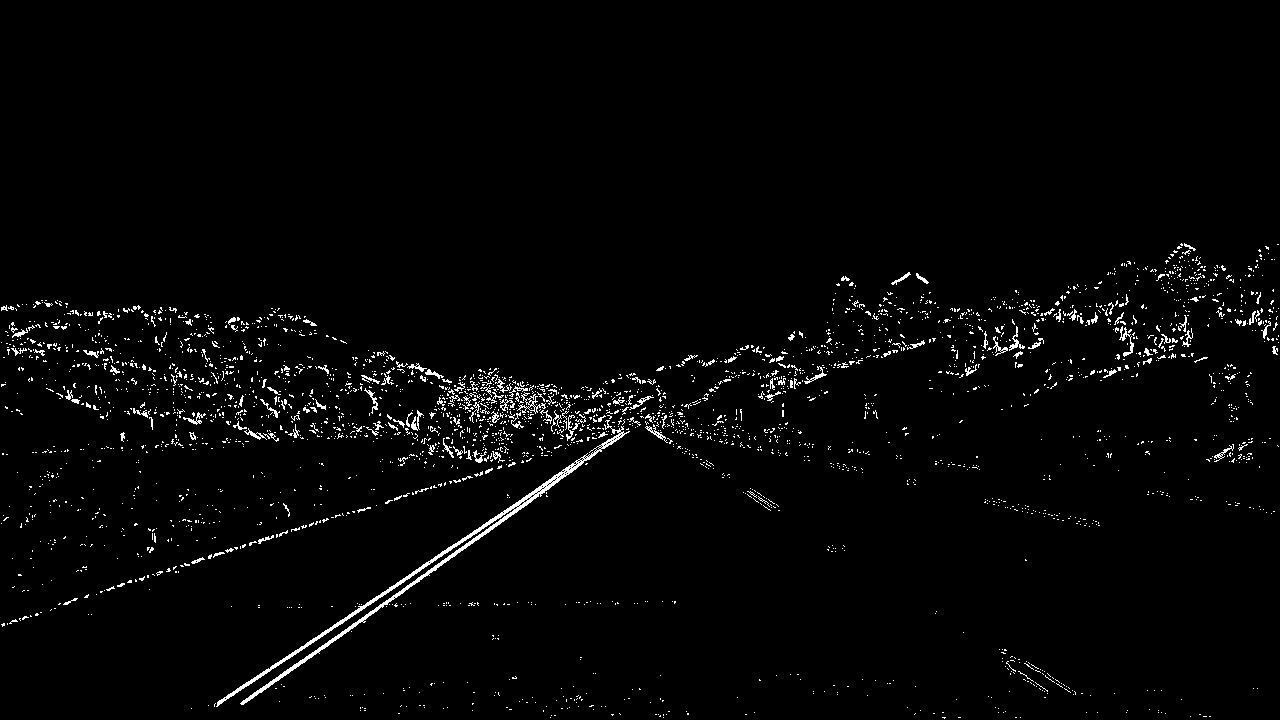
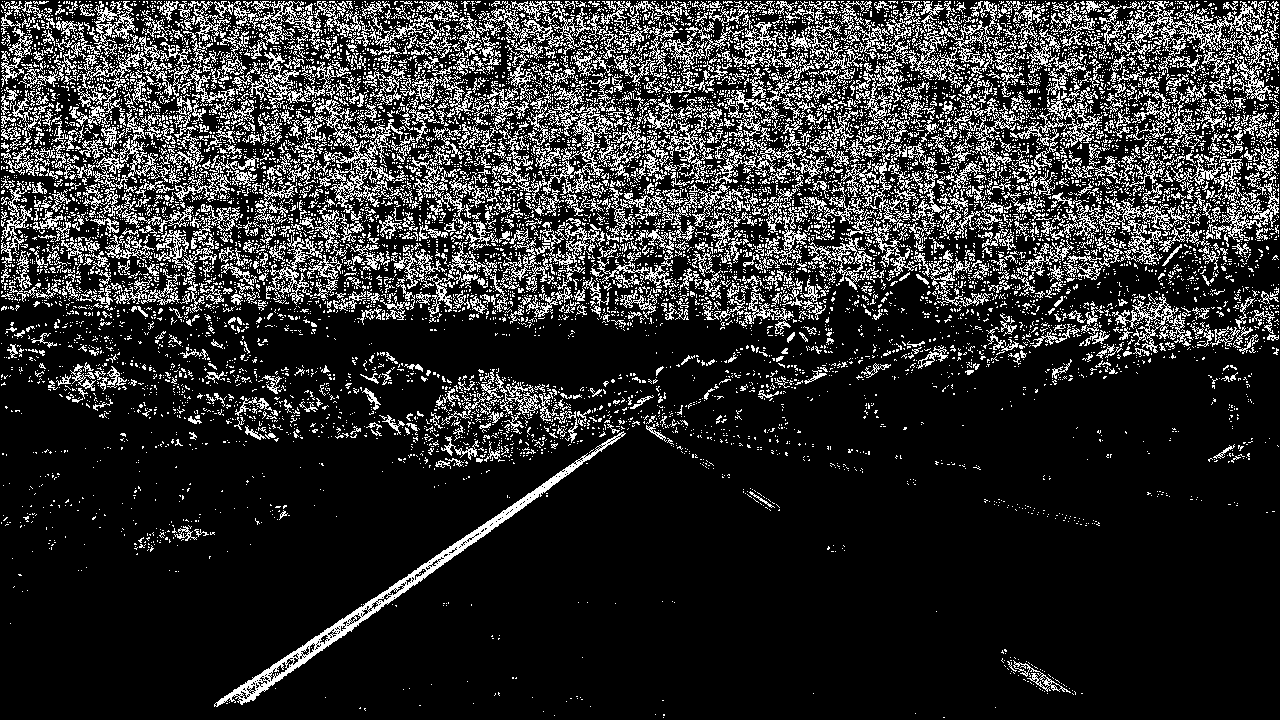
hsv, new combine, new warp points

diff --git a/color_transform.py b/color_transform.py
@@ -17,6 +17,11 @@ def hls_conversion(iscv2):
         return cv2.COLOR_BGR2HLS
     return cv2.COLOR_RGB2HLS
 
+def hsv_conversion(iscv2):    
+    if(iscv2):
+        return cv2.COLOR_BGR2HSV
+    return cv2.COLOR_RGB2HSV
+
 def abs_sobel_thresh(img, orient='x', sobel_kernel=3, thresh=(0, 255), iscv2=True):
     # Grayscale
     gray = cv2.cvtColor(img, gray_conversion(iscv2))
@@ -75,6 +80,13 @@ def hls_select(img, thresh=(0, 255), iscv2=True):
     binary[(s > thresh[0]) & (s <= thresh[1])] = 1
     return binary
 
+def hsv_select(img, thresh=(0, 255), iscv2=True):
+    hsv = cv2.cvtColor(img, hsv_conversion(iscv2))
+    s = hsv[:,:,1]
+    binary = np.zeros_like(s)
+    binary[(s > thresh[0]) & (s <= thresh[1])] = 1
+    return binary
+
 def combine(image, ksize=3):
     # Apply each of the thresholding functions
     gradx = abs_sobel_thresh(image, orient='x', sobel_kernel=ksize, thresh=(20, 100))
@@ -84,7 +96,7 @@ def combine(image, ksize=3):
     hls_binary = hls_select(image, thresh=(90, 255))
     # Combine functions in a smart (hopefully) way
     combined = np.zeros_like(dir_binary)
-    combined[((gradx == 1) & (hls_binary == 1)) | ((mag_binary == 1) & (dir_binary == 1))] = 1
+    combined[((gradx == 1) & (grady == 1) & (mag_binary == 1)) | ((hls_binary == 1) & (dir_binary == 1))] = 1
     return combined
 
 def write_color_transformed_test_images():
@@ -101,9 +113,6 @@ def write_color_transformed_test_images():
         dst = cv2.undistort(img, mtx, dist, None, mtx)
         cvt = combine(dst)
         plt.imsave('./output_images/color_transformed' + str(i) + '.png', cvt, cmap=cm.gray)
-        #plt.imshow(cvt, cmap='gray')        
-        #plt.show()
-        #cv2.imwrite('./output_images/color_transformed' + str(i) + '.jpg', cvt)
 
 
 def compare_transformations():
@@ -120,23 +129,24 @@ def compare_transformations():
         ksize = 3 # Choose a larger odd number to smooth gradient measurements
 
         # Apply each of the thresholding functions
-        gradx = abs_sobel_thresh(dst, orient='x', sobel_kernel=ksize, thresh=(20, 100))
-        grady = abs_sobel_thresh(dst, orient='y', sobel_kernel=ksize, thresh=(20, 100))
-        mag_binary = mag_thresh(dst, sobel_kernel=ksize, mag_thresh=(30, 100))
-        dir_binary = dir_threshold(dst, sobel_kernel=ksize, thresh=(0.7, 1.3))    
-        hls_binary = hls_select(dst, thresh=(90, 255))
+        gradx = abs_sobel_thresh(dst, orient='x', sobel_kernel=ksize, thresh=(30, 100))
+        grady = abs_sobel_thresh(dst, orient='y', sobel_kernel=ksize, thresh=(30, 100))
+        mag_binary = mag_thresh(dst, sobel_kernel=ksize, mag_thresh=(50, 100))
+        dir_binary = dir_threshold(dst, sobel_kernel=ksize, thresh=(0.7, 1.2))    
+        hls_binary = hls_select(dst, thresh=(120, 255))
+        hsv_binary = hsv_select(dst, thresh=(120, 255))
 
         combined = np.zeros_like(dir_binary)
-        combined[((gradx == 1) & (hls_binary == 1)) | ((mag_binary == 1) & (dir_binary == 1))] = 1
+        combined[((gradx == 1) & (grady == 1) & (mag_binary == 1)) | ((hls_binary == 1) & (dir_binary == 1))] = 1
 
         # Plot the result
-        f, ((ax1, ax2, ax3), (ax4, ax5, ax6)) = plt.subplots(2, 3, figsize=(36, 18))
+        f, ((ax1, ax2, ax3), (ax4, ax5, ax6), (ax7, ax8, ax9)) = plt.subplots(3, 3, figsize=(36, 18))
         f.tight_layout()
         ax1.imshow(dst)
         ax1.set_title('Original Image', fontsize=50)
         ax2.imshow(gradx, cmap='gray')
         ax2.set_title('Thresholded Grad. X', fontsize=50)
-        ax3.imshow(hls_binary, cmap='gray')
+        ax3.imshow(grady, cmap='gray')
         ax3.set_title('Thresholded Grad. Y', fontsize=50)
         ax4.imshow(mag_binary, cmap='gray')
         ax4.set_title('Thresholded Grad. Mag.', fontsize=50)
@@ -144,8 +154,11 @@ def compare_transformations():
         ax5.set_title('Thresholded Grad. Dir.', fontsize=50)
         ax6.imshow(combined, cmap='gray')
         ax6.set_title('Combined', fontsize=50)
+        ax7.imshow(hls_binary, cmap='gray')
+        ax7.set_title('Thresholded HSL', fontsize=50)
+        ax8.imshow(hsv_binary, cmap='gray')
+        ax8.set_title('Thresholded HSV', fontsize=50)
+        ax9.imshow(hsv_binary, cmap='gray')
+        ax9.set_title('Thresholded Grad. Y', fontsize=50)
         plt.subplots_adjust(left=0., right=1, top=0.9, bottom=0.)
         plt.show()
-
-
-write_color_transformed_test_images()

diff --git a/undist_warp.py b/undist_warp.py
@@ -9,8 +9,8 @@ import glob
 import matplotlib.cm as cm
 
 def get_perspective_transform_matrix():
-    src = np.float32([[625.0,430.0],[501.0,517.0],[793.0,517.0],[655.0,430.0]])
-    dst = np.float32([[501.0,0.0],[501.0,517.0],[793.0,517.0],[793.0,0.0]])
+    src = np.float32([[595.0,450.0],[259.0,687.0],[1056.0,687.0],[687.0,450.0]])
+    dst = np.float32([[219.0,0.0],[219.0,720.0],[1091.0,720.0],[1091.0,0.0]])
     M = cv2.getPerspectiveTransform(src, dst)
     return M;
 
@@ -19,6 +19,7 @@ def warp(img, mtx, dist):
     cvt = color_transform.combine(udst)
     #cv2.imshow('cvt',cvt)
     M = get_perspective_transform_matrix()
+    print(cvt.shape)
     warped = cv2.warpPerspective(cvt, M, (cvt.shape[1], cvt.shape[0]), flags=cv2.INTER_LINEAR)
     return warped
 
